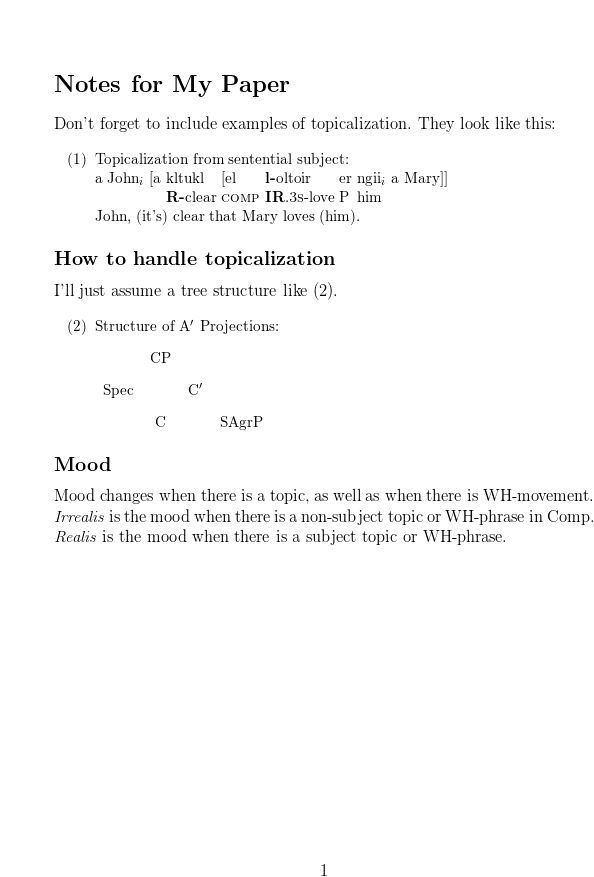
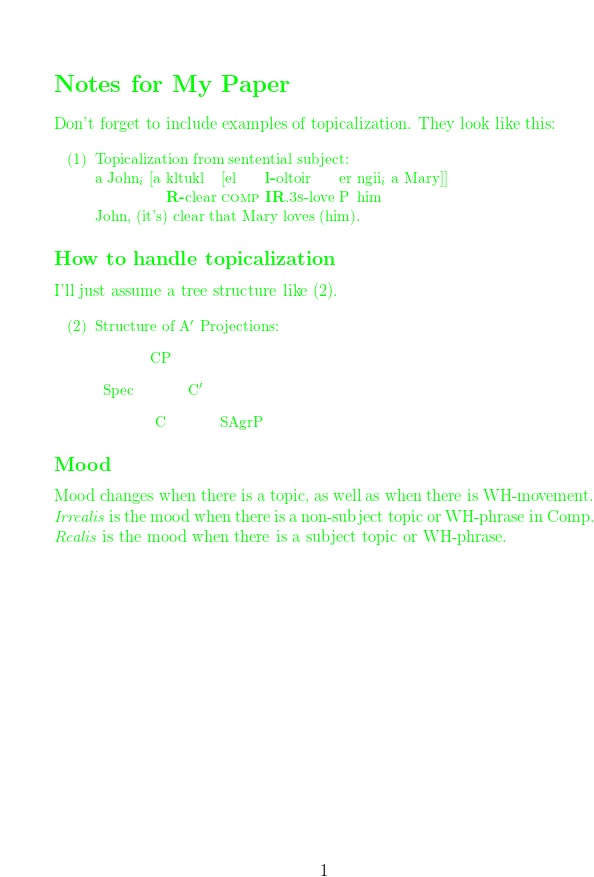
inbetween latex work

diff --git a/src/latex.rs b/src/latex.rs
@@ -16,12 +16,17 @@ pub fn run_external(){
     println!("{:?}", hello );
 }
 
-fn construct_latex_file(tex_string: Option<String>){
-    let prepend = String::from(
+fn construct_latex_file(font_color: &[f64; 3] ,tex_string: Option<String>){
+    let mut prepend = String::from(
 "\\documentclass[12pt]{article}
 \\usepackage{lingmacros}
 \\usepackage{tree-dvips}
-\\begin{document}"); 
+\usepackage{xcolor}");
+
+    prepend.push_str(format!("\definecolor\{custom\}\{RGB\}\{{}, {}, {}\}", font_color[0] as u32,
+                                                                            font_color[1] as u32,
+
+    prepend.push_str("\\begin{document}\n\color{custom}\n");
 
     let postpend = String::from("\\end{document}");
 

diff --git a/output.tex b/output.tex
@@ -1,7 +1,11 @@
 \documentclass[12pt]{article}
 \usepackage{lingmacros}
 \usepackage{tree-dvips}
+\usepackage{xcolor}
+
+\definecolor{custom}{RGB}{0,255,0}
 \begin{document}
+\color{custom}
 
 \section*{Notes for My Paper}
 
